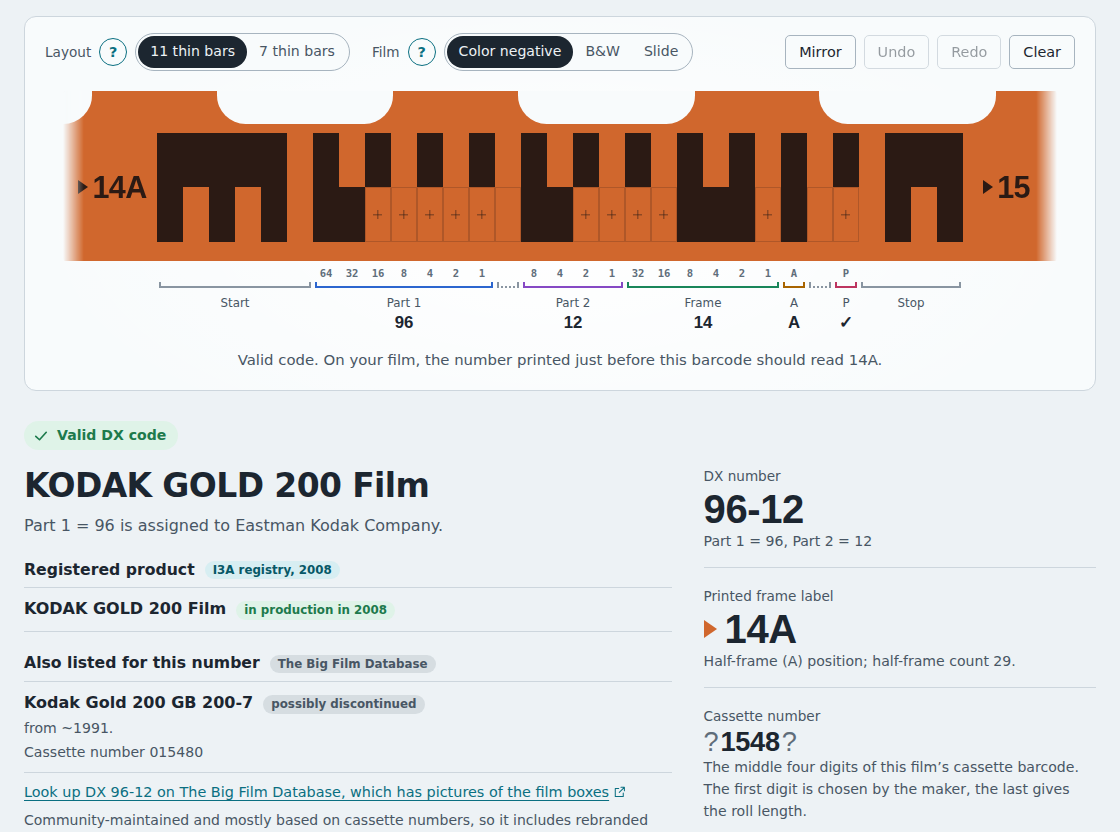
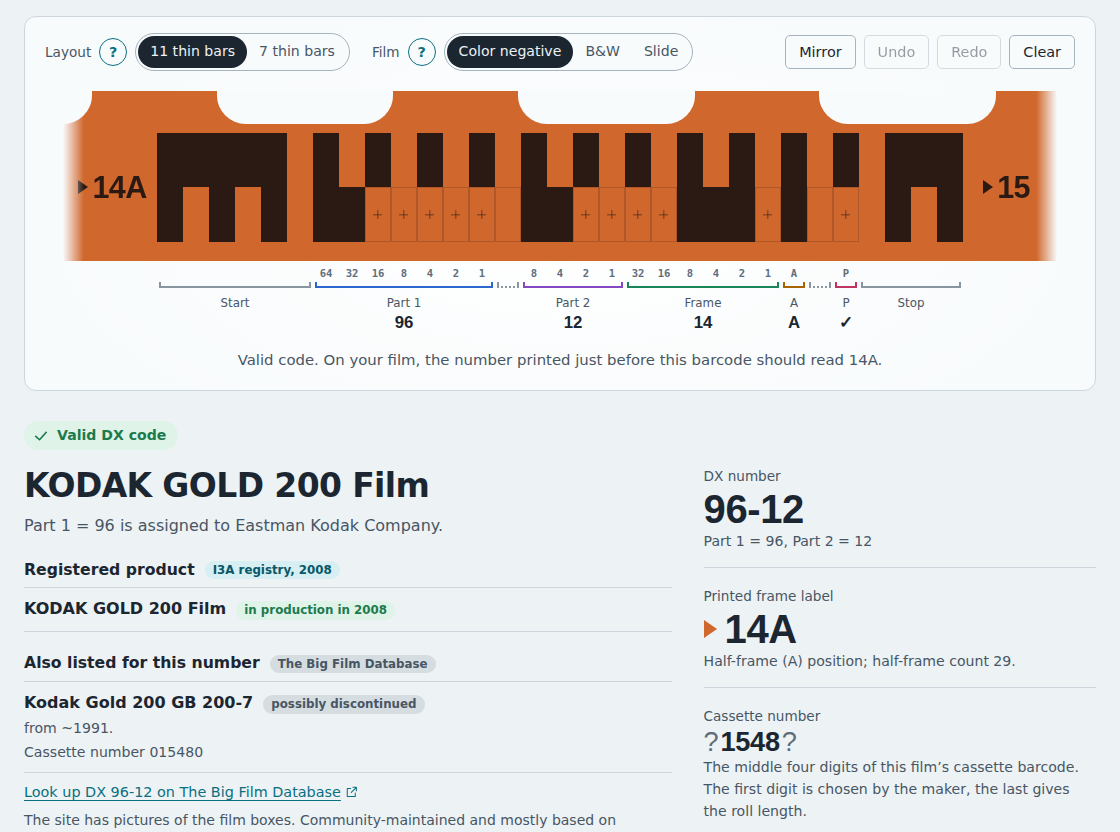
updated messagze text

Changed region(s): [[0.0312, 0.9375, 0.5938, 1.0]]

diff --git a/site/js/ui-result.js b/site/js/ui-result.js
@@ -65,7 +65,7 @@
     const dx = `${part1}-${part2}`;
     return h('p', { class: 'source-block__link' },
       h('a', { href: BFD_SEARCH + dx, target: '_blank', rel: 'noopener' },
-        t('Look up DX {dx} on The Big Film Database, which has pictures of the film boxes', { dx }),
+        t('Look up DX {dx} on The Big Film Database', { dx }),
         icon('external'),
         h('span', { class: 'visually-hidden' }, ' ', t('(opens in a new tab)'))));
   }
@@ -114,8 +114,10 @@
     }
     const link = bfdLink(d.part1, d.part2);
     if (link) block.append(link);
+    const about = t('Community-maintained and mostly based on cassette numbers, so it includes rebranded films. Entries are as reliable as their sources.');
+    // What the linked site has goes in the text under the link, not in the link.
     block.append(h('p', { class: 'fineprint' },
-      t('Community-maintained and mostly based on cassette numbers, so it includes rebranded films. Entries are as reliable as their sources.')));
+      link ? t('The site has pictures of the film boxes') + i18n.punctuation().sentence + about : about));
     return block;
   }
 

diff --git a/site/js/ui-finder.js b/site/js/ui-finder.js
@@ -216,7 +216,7 @@
           h('ul', { class: 'matches' }, similar.map(ui.communityItem))));
       }
       const link = exact.length || similar.length ? ui.bfdLink(p.part1, p.part2) : null;
-      if (link) blocks.push(link);
+      if (link) blocks.push(link, h('p', { class: 'fineprint' }, t('The site has pictures of the film boxes') + i18n.punctuation().period));
       if (!blocks.length || (!hit.augmented.length && hit.dx && !hit.dx.products.length && !exact.length && !similar.length)) {
         blocks.push(h('p', { class: 'fineprint' }, t('This number is not in the 2008 registry or the community database.')));
       }

diff --git a/site/js/i18n/zh-CN.js b/site/js/i18n/zh-CN.js
@@ -196,8 +196,10 @@
       "回到编码列表",
     "Example":
       "示例",
-    "Look up DX {dx} on The Big Film Database, which has pictures of the film boxes":
-      "在 The Big Film Database 上查看 DX {dx}，该网站有胶片包装盒图片",
+    "Look up DX {dx} on The Big Film Database":
+      "在 The Big Film Database 上查看 DX {dx}",
+    "The site has pictures of the film boxes":
+      "该网站有胶片包装盒图片",
     "(opens in a new tab)":
       "（在新标签页中打开）",
     "Hide where this code came from":
